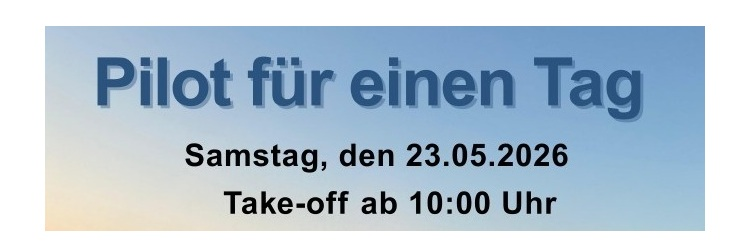
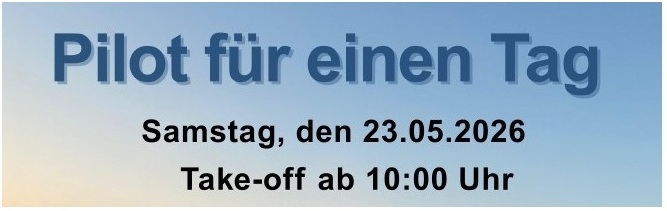
update image and scale

diff --git a/src/components/news/Newskarte.tsx b/src/components/news/Newskarte.tsx
@@ -63,7 +63,7 @@ function Newskarte(  { date, title, description, images, expanded, setExpanded, 
                     src={imageFromStore.preview}
                     alt={`Era ${era.date} image ${idx + 1}`}
                     className="img-fluid rounded"
-                    style={{ objectFit: 'cover', height: '150px', width: '100%',   cursor: 'pointer'  }}
+                    style={{ objectFit: 'contain',   cursor: 'pointer'  }}
                     onClick={() => openModal(imageFromStore.full)}
                   />
                 </div>

diff --git a/src/components/news/Newsdaten.tsx b/src/components/news/Newsdaten.tsx
@@ -14,6 +14,7 @@ Am 23. Mai 2026 findet unser beliebtes Event „Pilot für einen Tag“ statt, b
 
 Anmelden können sich alle Interessierten beim <a href="mailto:[email redacted]?subject=Anmeldung%20zum%20Pilot%20für%20ein%20Tag&body=Hallo%20FSV-Team%2C%0A%0Aich%20möchte%20mich%20für%20den%20Pilot%20für%20ein%20Tag%20anmelden.%0A%0AName%3A%20%0AAuswahl%20(Segelflug%20oder%20UL)%3A%20%0A%0AMit%20freundlichen%20Grüßen">Vorstand</a>. 
 
+Wir freuen uns auf viele neue Gesichter und spannende Flugerlebnisse! ✈️
 `,
       images: [ 
      'pic040'